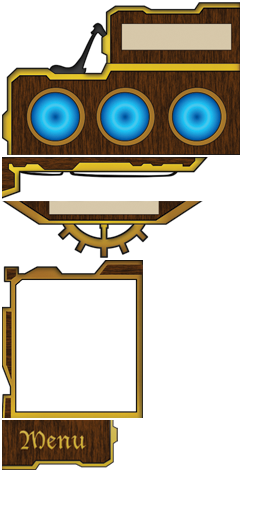
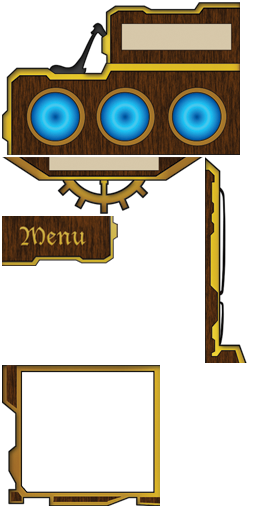
some ui screens

Changed region(s): [[0.0, 0.2812, 0.9688, 1.0]]

diff --git a/unity/Assets/Src/net/kibotu/sandbox/unity/dragnslay/menu/view/ShopView.cs b/unity/Assets/Src/net/kibotu/sandbox/unity/dragnslay/menu/view/ShopView.cs
@@ -1,0 +1,44 @@
+using UnityEngine;
+
+namespace Assets.Src.net.kibotu.sandbox.unity.dragnslay.menu.view
+{
+    public class ShopView : MonoBehaviour
+    {
+        public void Start()
+        {
+            var atlas = GameObject.Find("shop_menu").GetComponent<UIToolkit>();
+
+            var sprite = UIButton.create(atlas, "center.png", "center.png", 0, 0);
+            sprite.positionCenter();
+            sprite.scale = new Vector3(0.52083f, 0.520833f, 0);
+
+            sprite = UIButton.create(atlas, "buy.png", "buy.png", 0, 0);
+            sprite.positionFromBottom(0.2f);
+            sprite.scale = new Vector3(0.52083f, 0.520833f, 0);
+
+            sprite = UIButton.create(atlas, "left.png", "left.png", 0, 0);
+            sprite.positionFromLeft(0.27f);
+            sprite.scale = new Vector3(0.52083f, 0.520833f, 0);
+
+            sprite = UIButton.create(atlas, "right.png", "right.png", 0, 0);
+            sprite.positionFromRight(0.27f);
+            sprite.scale = new Vector3(0.52083f, 0.520833f, 0);
+
+            sprite = UIButton.create(atlas, "Skins.png", "Skins.png", 0, 0);
+            sprite.positionFromCenter(-0.2f,-0.21f);
+            sprite.scale = new Vector3(0.52083f, 0.520833f, 0);
+
+            sprite = UIButton.create(atlas, "boosts.png", "boosts.png", 0, 0);
+            sprite.positionFromCenter(-0.2f, -0.07f);
+            sprite.scale = new Vector3(0.52083f, 0.520833f, 0);
+
+            sprite = UIButton.create(atlas, "upgrades.png", "upgrades.png", 0, 0);
+            sprite.positionFromCenter(-0.2f, 0.07f);
+            sprite.scale = new Vector3(0.52083f, 0.520833f, 0);
+
+            sprite = UIButton.create(atlas, "buffs.png", "buffs.png", 0, 0);
+            sprite.positionFromCenter(-0.2f, 0.21f);
+            sprite.scale = new Vector3(0.52083f, 0.520833f, 0);
+        }
+    }
+}

diff --git a/unity/Assets/Src/net/kibotu/sandbox/unity/dragnslay/menu/view/NetworkView.cs b/unity/Assets/Src/net/kibotu/sandbox/unity/dragnslay/menu/view/NetworkView.cs
@@ -25,30 +25,26 @@ namespace Assets.Src.net.kibotu.sandbox.unity.dragnslay.menu.view
 
             var mainMenuToolkit = GameObject.Find("main_menu").GetComponent<UIToolkit>();
 
+            var padding = 0.00f;
+
             disconnected = mainMenuToolkit.addSprite("disconnected.png", 0, 0);
-            disconnected.positionFromCenter(0, 0);
-            disconnected.positionFromTop(0.01f, -0.06f);
+            disconnected.positionFromTopLeft(padding, 0.2f);
             disconnected.color = Color.white;
 
             connected = mainMenuToolkit.addSprite("connected.png", 0, 0);
-            connected.positionFromCenter(0, 0);
-            connected.positionFromTop(0.02f, -0.03f);
+            connected.positionFromTopLeft(padding, 0.23f);
             connected.color = Color.grey;
 
             activity = mainMenuToolkit.addSprite("activity.png", 0, 0);
-            activity.positionFromCenter(0, 0);
-            activity.positionFromTop(0.02f, 0);
+            activity.positionFromTopLeft(padding, 0.26f);
             activity.color = Color.grey;
 
             ok = mainMenuToolkit.addSprite("ok.png", 0, 0);
-            ok.positionFromCenter(0, 0);
-            ok.positionFromTop(0.02f, 0.03f);
+            ok.positionFromTopLeft(padding, 0.29f);
             ok.color = Color.grey;
 
             error = mainMenuToolkit.addSprite("error.png", 0, 0);
-            error.positionFromCenter(0, 0);
-            error.positionFromTop(0.02f, 0.06f);
-            error.scale = new Vector3(1.2f,1.2f,0);
+            error.positionFromTopLeft(padding, 0.32f);
             error.color = Color.grey;
 
             #if UNITY_ANDROID && !UNITY_EDITOR

diff --git a/unity/Assets/Src/net/kibotu/sandbox/unity/dragnslay/menu/Menu.cs b/unity/Assets/Src/net/kibotu/sandbox/unity/dragnslay/menu/Menu.cs
@@ -28,6 +28,16 @@ namespace Assets.Src.net.kibotu.sandbox.unity.dragnslay.menu
             gameObject.AddComponent<BoostsView>();
             gameObject.AddComponent<NetworkView>();
             gameObject.AddComponent<MapView>();
+            gameObject.AddComponent<MenuButtonView>();
+            gameObject.AddComponent<ResourcesView>();
+            gameObject.AddComponent<CornerView>();
+        }
+
+        public void ShowShop()
+        {
+            Destroy(gameObject.GetComponent<MainMenu>());
+
+            gameObject.AddComponent<ShopView>();
         }
     }
 }

diff --git a/unity/Assets/Src/net/kibotu/sandbox/unity/dragnslay/menu/view/ResourcesView.cs b/unity/Assets/Src/net/kibotu/sandbox/unity/dragnslay/menu/view/ResourcesView.cs
@@ -1,0 +1,16 @@
+using UnityEngine;
+
+namespace Assets.Src.net.kibotu.sandbox.unity.dragnslay.menu.view
+{
+    public class ResourcesView : MonoBehaviour
+    {
+        public void Start()
+        {
+            var in_game_hud = GameObject.Find("in_game_hud").GetComponent<UIToolkit>();
+
+            var sprite = UIButton.create(in_game_hud, "resources.png", "resources.png", 0, 0);
+            sprite.positionFromTop(0, 0);
+            sprite.scale = new Vector3(0.52083f, 0.520833f, 0);
+        }
+    }
+}

diff --git a/unity/Assets/Src/net/kibotu/sandbox/unity/dragnslay/menu/view/CornerView.cs b/unity/Assets/Src/net/kibotu/sandbox/unity/dragnslay/menu/view/CornerView.cs
@@ -1,0 +1,16 @@
+using UnityEngine;
+
+namespace Assets.Src.net.kibotu.sandbox.unity.dragnslay.menu.view
+{
+    public class CornerView : MonoBehaviour
+    {
+        public void Start()
+        {
+            var in_game_hud = GameObject.Find("in_game_hud").GetComponent<UIToolkit>();
+
+            var sprite = UIButton.create(in_game_hud, "corner.png", "corner.png", 0, 0);
+            sprite.positionFromBottomLeft(0, 0);
+            sprite.scale = new Vector3(0.52083f, 0.520833f, 0);
+        }
+    }
+}

diff --git a/unity/Assets/Src/net/kibotu/sandbox/unity/dragnslay/menu/view/MenuButtonView.cs b/unity/Assets/Src/net/kibotu/sandbox/unity/dragnslay/menu/view/MenuButtonView.cs
@@ -1,0 +1,16 @@
+using UnityEngine;
+
+namespace Assets.Src.net.kibotu.sandbox.unity.dragnslay.menu.view
+{
+    public class MenuButtonView : MonoBehaviour
+    {
+        public void Start()
+        {
+            var in_game_hud = GameObject.Find("in_game_hud").GetComponent<UIToolkit>();
+
+            var sprite = UIButton.create(in_game_hud, "menu.png", "menu.png", 0, 0);
+            sprite.positionFromTopLeft(0, 0);
+            sprite.scale = new Vector3(0.52083f, 0.520833f, 0);
+        }
+    }
+}

diff --git a/unity/Assets/Src/net/kibotu/sandbox/unity/dragnslay/menu/view/BoostsView.cs b/unity/Assets/Src/net/kibotu/sandbox/unity/dragnslay/menu/view/BoostsView.cs
@@ -9,8 +9,8 @@ namespace Assets.Src.net.kibotu.sandbox.unity.dragnslay.menu.view
             var in_game_hud = GameObject.Find("in_game_hud").GetComponent<UIToolkit>();
 
             var skills = UIButton.create(in_game_hud, "skills.png", "skills.png",0,0);
-            skills.positionFromBottomRight(0,0);
-            skills.scale = new Vector3(0.6f,0.6f,0.6f);
+            skills.positionFromBottomRight(0, 0);
+            skills.scale = new Vector3(0.52083f, 0.520833f, 0);
         }
     }
 }

diff --git a/unity/Assets/Src/net/kibotu/sandbox/unity/dragnslay/menu/view/MapView.cs b/unity/Assets/Src/net/kibotu/sandbox/unity/dragnslay/menu/view/MapView.cs
@@ -10,7 +10,7 @@ namespace Assets.Src.net.kibotu.sandbox.unity.dragnslay.menu.view
 
             var map = UIButton.create(in_game_hud, "map.png", "map.png", 0,0);
             map.positionFromTopRight(0, 0);
-            map.scale = new Vector3(0.6f, 0.6f, 0.6f);
+            map.scale = new Vector3(0.52083f, 0.520833f, 0);
         }
     }
 }

diff --git a/unity/Assets/Src/net/kibotu/sandbox/unity/dragnslay/menu/view/MainMenu.cs b/unity/Assets/Src/net/kibotu/sandbox/unity/dragnslay/menu/view/MainMenu.cs
@@ -100,7 +100,7 @@ namespace Assets.Src.net.kibotu.sandbox.unity.dragnslay.menu.view
 
         public void OnShopClicked(UIButton button)
         {
-
+            GameObject.Find("Menu").GetComponent<Menu>().ShowShop();
         }
 
         public void OnDestroy()
